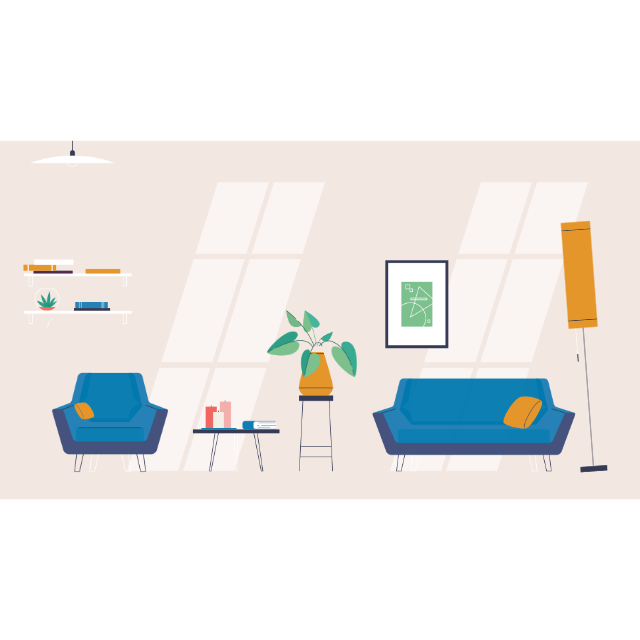
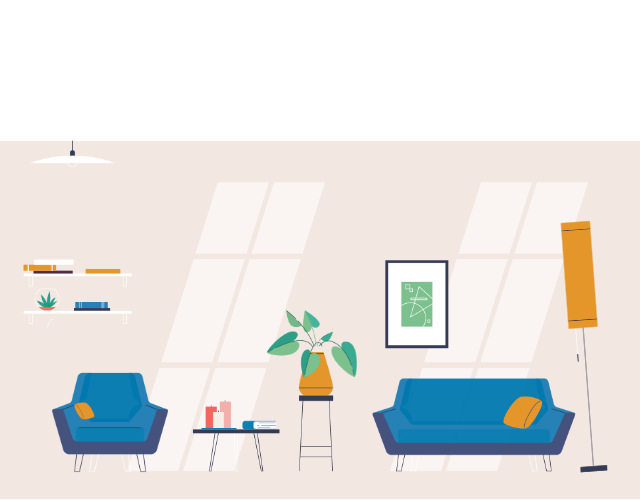
Add centered About Atelier title and captions in top white space, crop bottom white space

diff --git a/style.css b/style.css
@@ -1434,8 +1434,8 @@ button {
 .about-section {
     position: relative;
     width: 100%;
-    padding: 72px 0;
-    background-color: #F8F4EE;
+    padding: 48px 0 16px;
+    background-color: var(--shepel-bg);
     border-top: 1px solid var(--shepel-border);
     border-bottom: 1px solid var(--shepel-border);
     display: flex;
@@ -1458,31 +1458,104 @@ button {
     position: relative;
     width: 100%;
     max-width: 1200px;
-    aspect-ratio: 16 / 9;
-    background-color: #F8F4EE;
+    aspect-ratio: 640 / 500;
+    background-color: #FFFFFF;
     overflow: hidden;
     border-radius: 6px;
-    box-shadow: 0 16px 48px rgba(0, 0, 0, 0.05);
+    box-shadow: 0 16px 44px rgba(0, 0, 0, 0.05);
     border: 1px solid rgba(43, 47, 50, 0.08);
-    display: flex;
-    align-items: center;
-    justify-content: center;
     transform-style: preserve-3d;
     perspective: 1000px;
     transition: transform 0.5s cubic-bezier(0.16, 1, 0.3, 1), box-shadow 0.4s ease;
 }
 
-.about-anim-video {
+.about-anim-viewport {
+    position: absolute;
+    top: 0;
+    left: 0;
     width: 100%;
     height: 100%;
-    object-fit: contain;
+    overflow: hidden;
+}
+
+.about-anim-video {
+    position: absolute;
+    top: 0;
+    left: 0;
+    width: 100%;
+    height: calc(100% * (640 / 500));
+    object-fit: cover;
+    object-position: center top;
     display: block;
-    background-color: #F8F4EE;
+    background-color: #FFFFFF;
+}
+
+/* Editorial Top Header in the upper white band (y: 0 to 140px = top 28%) */
+.about-stage-header {
+    position: absolute;
+    top: 0;
+    left: 0;
+    width: 100%;
+    height: 28%;
+    display: flex;
+    align-items: center;
+    justify-content: space-between;
+    padding: 0 36px;
+    z-index: 3;
+    pointer-events: none;
+}
+
+.about-stage-title {
+    font-family: var(--font-serif);
+    font-size: clamp(22px, 3.2vw, 36px);
+    text-transform: uppercase;
+    letter-spacing: 0.12em;
+    font-weight: 400;
+    color: var(--shepel-dark);
+    margin: 0;
+    text-align: center;
+    line-height: 1.1;
+    flex: 0 0 auto;
+    padding: 0 20px;
+}
+
+.about-stage-caption {
+    font-family: var(--font-sans);
+    font-size: clamp(10.5px, 1.1vw, 12px);
+    font-weight: 600;
+    letter-spacing: 0.16em;
+    text-transform: uppercase;
+}
+
+.about-caption-left {
+    color: var(--shepel-gold);
+    text-align: left;
+    flex: 1;
+}
+
+.about-caption-right {
+    color: var(--shepel-muted);
+    text-align: right;
+    flex: 1;
+}
+
+.about-mobile-sub {
+    display: none;
+}
+
+@media (max-width: 900px) {
+    .about-stage-header {
+        padding: 0 20px;
+    }
+    .about-stage-caption {
+        font-size: 10px;
+        letter-spacing: 0.12em;
+    }
 }
 
 @media (max-width: 768px) {
     .about-section {
-        padding: 32px 0;
+        padding: 24px 0 12px;
     }
     .about-stage-wrapper {
         padding: 0 16px;
@@ -1491,11 +1564,34 @@ button {
         border-radius: 4px;
         box-shadow: 0 8px 24px rgba(0, 0, 0, 0.04);
     }
+    .about-stage-header {
+        flex-direction: column;
+        justify-content: center;
+        gap: 3px;
+        padding: 0 12px;
+    }
+    .about-stage-title {
+        font-size: clamp(18px, 5.2vw, 24px);
+        padding: 0;
+    }
+    .about-caption-left,
+    .about-caption-right {
+        display: none;
+    }
+    .about-mobile-sub {
+        display: block;
+        font-family: var(--font-sans);
+        font-size: 9.5px;
+        letter-spacing: 0.12em;
+        text-transform: uppercase;
+        color: var(--shepel-gold);
+        font-weight: 600;
+    }
 }
 
 @media (max-width: 480px) {
     .about-section {
-        padding: 20px 0;
+        padding: 16px 0 8px;
     }
     .about-stage-wrapper {
         padding: 0 10px;
@@ -1504,6 +1600,13 @@ button {
         border-radius: 3px;
         border-color: rgba(43, 47, 50, 0.06);
     }
+    .about-stage-title {
+        font-size: 18px;
+    }
+    .about-mobile-sub {
+        font-size: 8.5px;
+        letter-spacing: 0.1em;
+    }
 }
 
 /* Reduced Motion Fallback */
@@ -1511,10 +1614,10 @@ button {
     .about-anim-video {
         display: none !important;
     }
-    .about-anim-stage {
+    .about-anim-viewport {
         background-image: url('assets/furniture-animation-poster.png') !important;
-        background-size: contain !important;
-        background-position: center !important;
+        background-size: cover !important;
+        background-position: center top !important;
         background-repeat: no-repeat !important;
     }
 }
@@ -1524,10 +1627,16 @@ button {
    ========================================================================== */
 
 .carousel-section {
-    padding: 100px 0;
+    padding: 56px 0 80px;
     background-color: #FFFFFF;
     border-top: 1px solid var(--shepel-border);
     border-bottom: 1px solid var(--shepel-border);
+}
+
+@media (max-width: 768px) {
+    .carousel-section {
+        padding: 40px 0 60px;
+    }
 }
 
 .carousel-header-row {

diff --git a/index.html b/index.html
@@ -284,12 +284,25 @@
     </section>
 
     <!-- 7. ABOUT SECTION (Pure Minimalist Living Animation - Screen Fit) -->
-    <section class="about-section about-section-pure" id="about" aria-label="Nivaraa Living Design Atelier">
+    <section class="about-section about-section-pure" id="about" aria-labelledby="about-atelier-title">
         <div class="about-stage-wrapper">
             <div class="about-anim-stage" id="about-img-frame">
-                <video class="about-anim-video" autoplay loop muted playsinline poster="assets/furniture-animation-poster.png" aria-label="Minimalist animated living room by Nivaraa Living">
-                    <source src="assets/furniture-animation.mp4" type="video/mp4">
-                </video>
+                
+                <!-- Video Animation (Cropped to eliminate bottom whitespace) -->
+                <div class="about-anim-viewport">
+                    <video class="about-anim-video" autoplay loop muted playsinline poster="assets/furniture-animation-poster.png" aria-label="Minimalist animated living room by Nivaraa Living">
+                        <source src="assets/furniture-animation.mp4" type="video/mp4">
+                    </video>
+                </div>
+
+                <!-- Editorial Top Header & Captions (In the top white canvas area) -->
+                <header class="about-stage-header">
+                    <span class="about-stage-caption about-caption-left">Bespoke Spatial Harmony</span>
+                    <h2 class="about-stage-title" id="about-atelier-title">About Atelier</h2>
+                    <span class="about-stage-caption about-caption-right">Pune Atelier • Millimeter Architecture</span>
+                    <span class="about-mobile-sub">Bespoke Spatial Harmony • Pune Atelier</span>
+                </header>
+
             </div>
         </div>
     </section>
